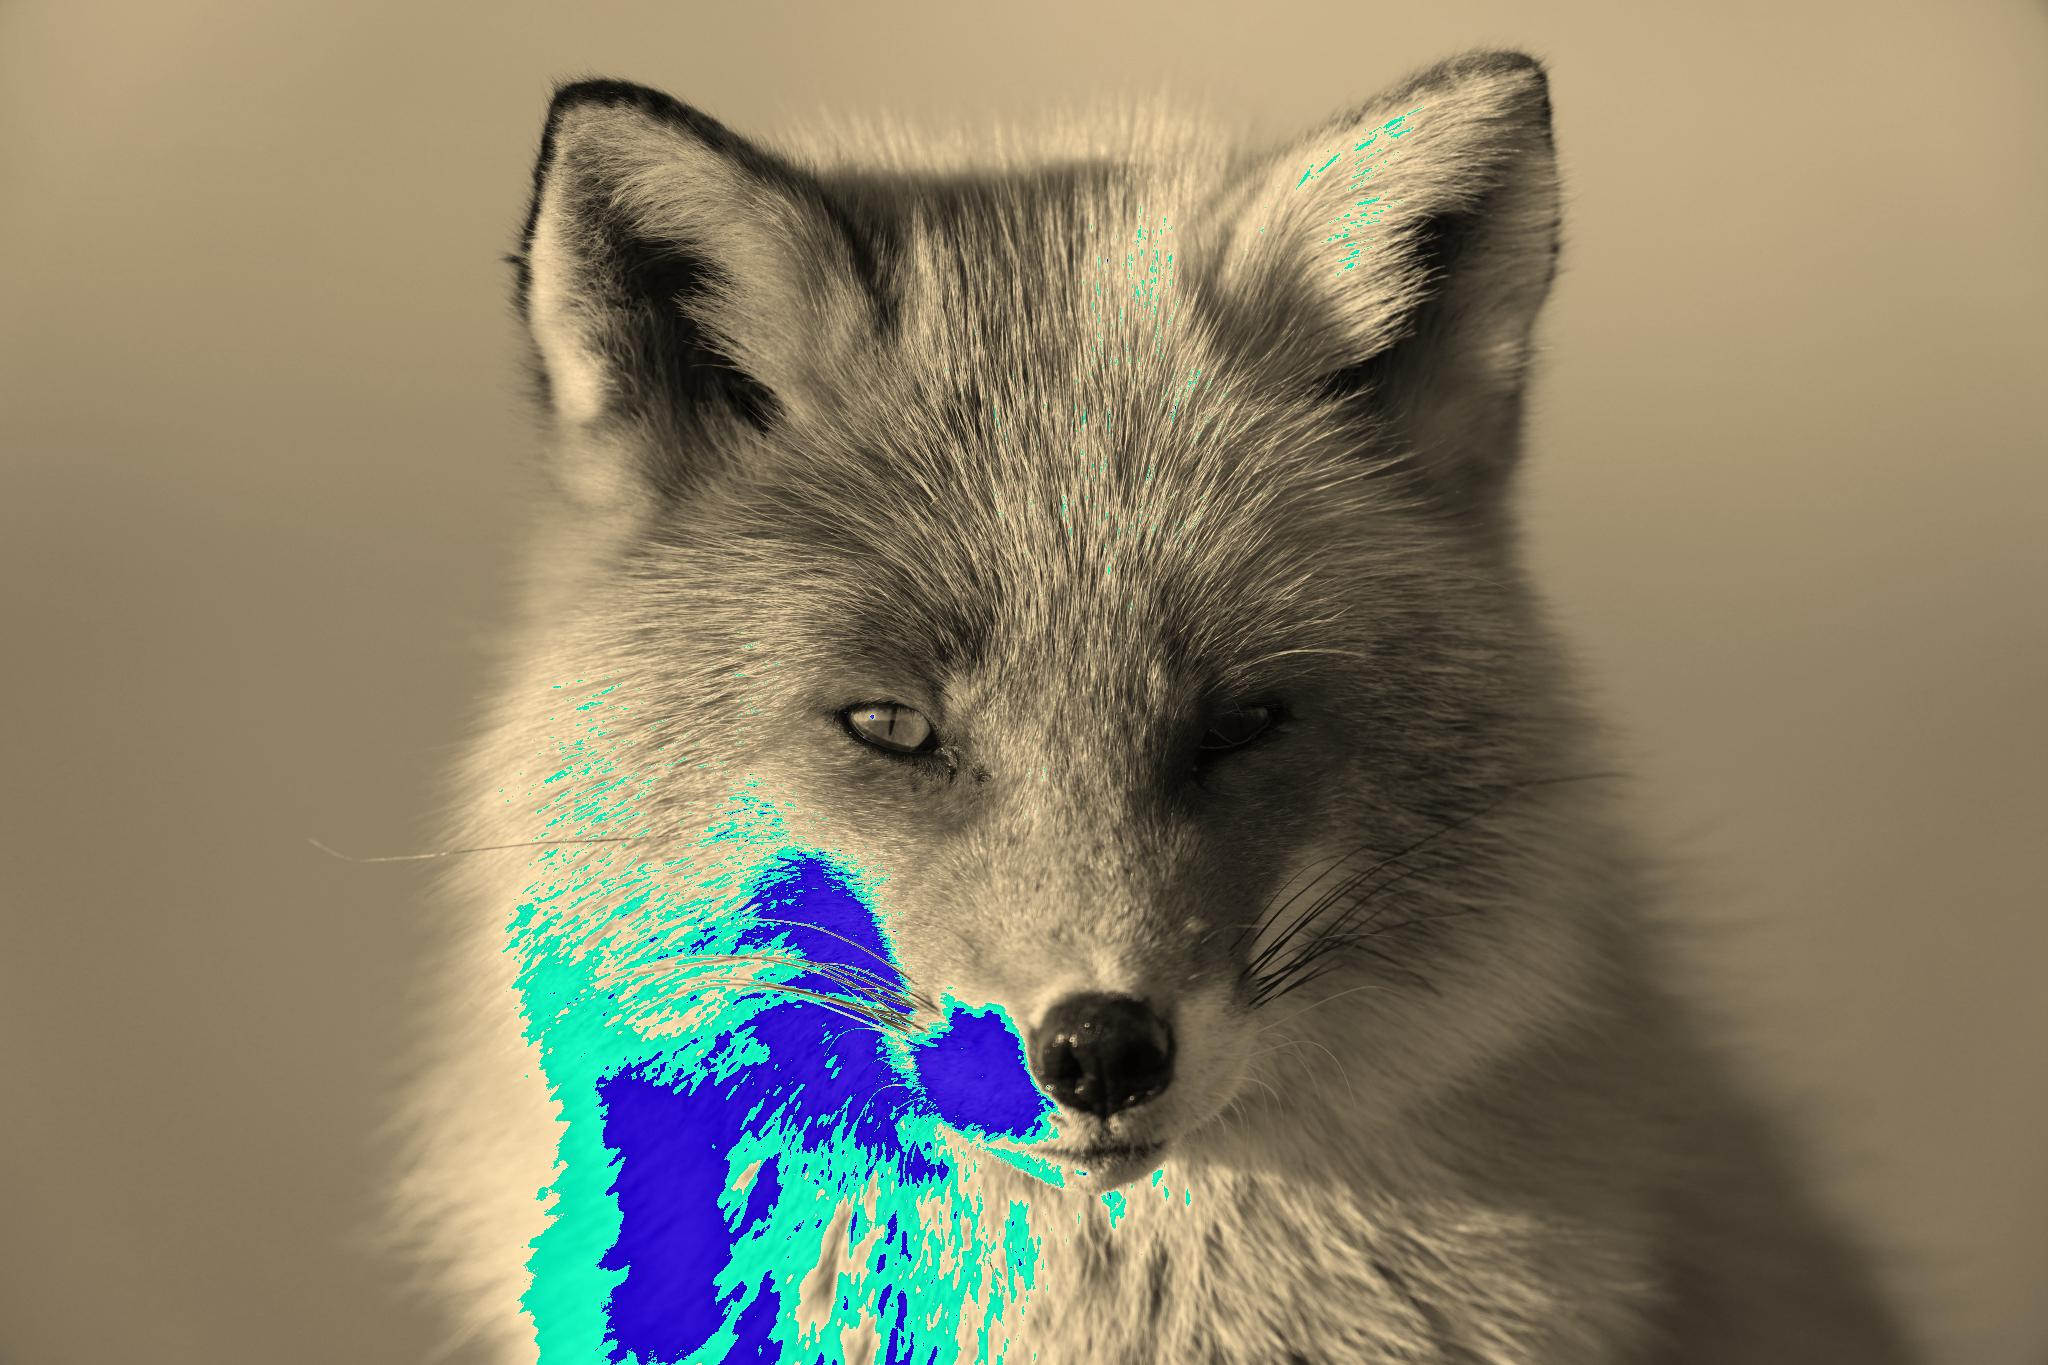
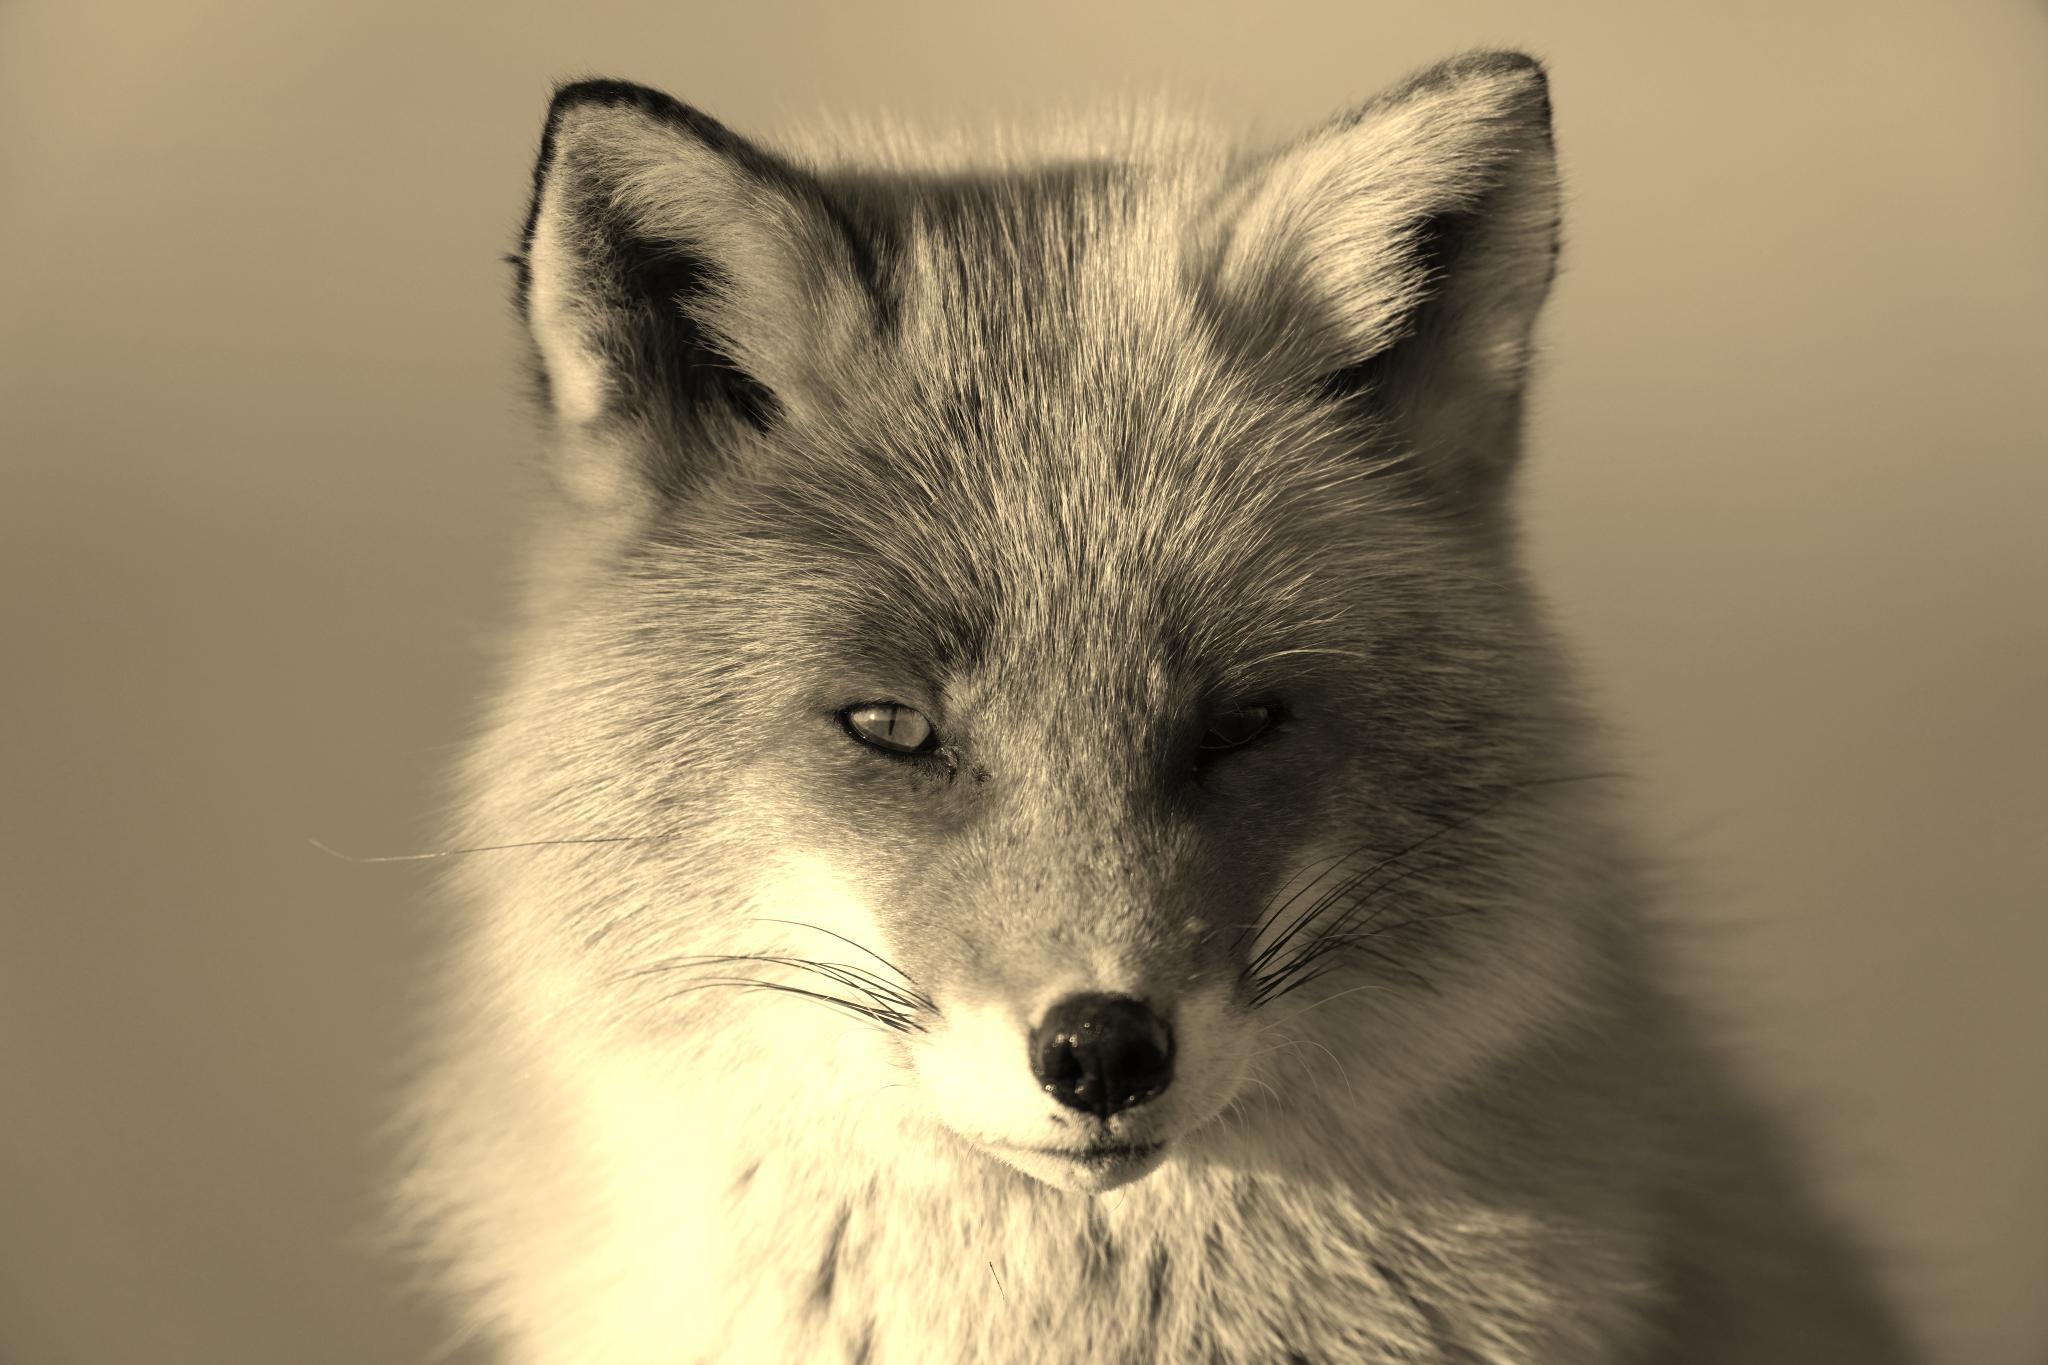
fixing sepia filter

diff --git a/Assignment5/src/model/transforms/SepiaTransform.java b/Assignment5/src/model/transforms/SepiaTransform.java
@@ -16,11 +16,22 @@ public class SepiaTransform implements model.ImageTransforms {
         sepiaImage[0][i][j] = (int) (0.393 * image[0][i][j] + 0.769 * image[1][i][j]
             + 0.189 * image[2][i][j]);
 
+        if (sepiaImage[0][i][j] > 255){
+          sepiaImage[0][i][j] = 255;
+        }
+
+
         sepiaImage[1][i][j] = (int) (0.349 * image[0][i][j] + 0.686 * image[1][i][j]
             + 0.168 * image[2][i][j]);
 
+        if (sepiaImage[1][i][j] > 255){
+          sepiaImage[1][i][j] = 255;
+        }
         sepiaImage[2][i][j] = (int) (0.272 * image[0][i][j] + 0.534 * image[1][i][j]
             + 0.131 * image[2][i][j]);
+        if (sepiaImage[2][i][j] > 255){
+          sepiaImage[2][i][j] = 255;
+        }
       }
     }
 
